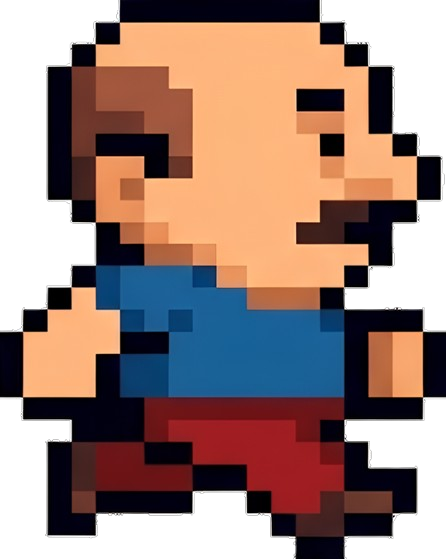
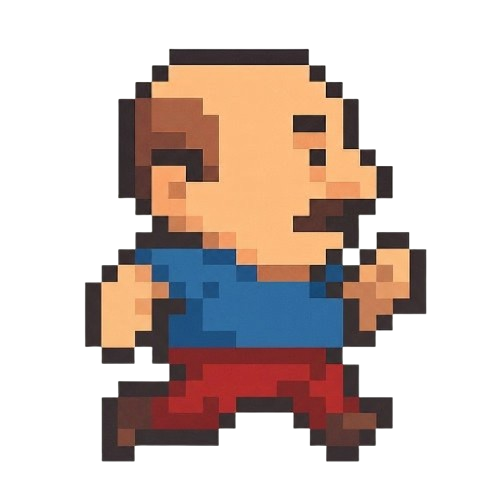
Animation déplacements dans méthodes + Jump en cours (fonctionnel mais pas d'animation)

diff --git a/Saé/UCForet.xaml.cs b/Saé/UCForet.xaml.cs
@@ -22,13 +22,15 @@ namespace Saé
     /// </summary>
     public partial class UCForet : UserControl
     {
-        private BitmapImage[] persos = new BitmapImage[5];
+        private BitmapImage[] imgPersoDroite = new BitmapImage[3];
+        private BitmapImage[] imgPersoGauche = new BitmapImage[3];
+        public static string derniereTouche = "";
         public static string orientationPerso = "Face";
         private int nb = 0;
         public UCForet()
         {
             InitializeComponent();
-            InitializeImagesDroiteMarche();
+            InitializeImagesMarche();
             if (MainWindow.Perso == "Homme")
                 Canvas.SetBottom(imgPerso, 63);
             else
@@ -37,39 +39,89 @@ namespace Saé
             imgPerso.Source = new BitmapImage(new Uri(nomFichierImage));
         }
 
-        private void InitializeImagesDroiteMarche()
+        private void InitializeImagesMarche()
         {
-            for (int i = 0; i < persos.Length; i++)
-                persos[i] = new BitmapImage(new Uri($"pack://application:,,,/images/img{MainWindow.Perso}DroiteMarche{i + 1}.png"));
+            for (int i = 0; i < imgPersoDroite.Length; i++)
+            {
+                imgPersoDroite[i] = new BitmapImage(new Uri($"pack://application:,,,/images/img{MainWindow.Perso}DroiteMarche{i + 1}.png"));
+                imgPersoGauche[i] = new BitmapImage(new Uri($"pack://application:,,,/images/img{MainWindow.Perso}GaucheMarche{i + 1}.png"));
+            }
         }
 
         public void canvasJeu_KeyDown(object sender, KeyEventArgs e)
         {
             if (e.Key == Key.Left && Canvas.GetLeft(imgPerso) <= -30 || e.Key == Key.Right && Canvas.GetLeft(imgPerso) > ActualWidth - imgPerso.Width + 10)
-                Console.WriteLine("Le personnage ne peut pas sortir de la fenêtre");
+                return;
+            else if (e.Key == Key.Up && derniereTouche == "Right" && Canvas.GetLeft(imgPerso) < ActualWidth - imgPerso.Width + 10 - 91 || e.Key == Key.Up && derniereTouche == "Left" && Canvas.GetLeft(imgPerso) > -30 + 91)
+            {
+                if (derniereTouche == "Right")
+                    imgPerso.Source = new BitmapImage(new Uri($"pack://application:,,,/images/img{MainWindow.Perso}DroiteSaut.png"));
+                else if (derniereTouche == "Left")
+                    imgPerso.Source = new BitmapImage(new Uri($"pack://application:,,,/images/img{MainWindow.Perso}GaucheSaut.png"));
+                Canvas.SetBottom(imgPerso, Canvas.GetBottom(imgPerso) + 100);
+            }
             else
             {
                 if (e.Key == Key.Right)
                 {
-                    Canvas.SetLeft(imgPerso, Canvas.GetLeft(imgPerso) + MainWindow.pasPerso);
-                    nb++;
-                    if (nb / 3 == persos.Length)
-                        nb = 0;
-                    if (nb % 3 == 0)
-                        imgPerso.Source = persos[nb / 3];
+                    DeplaceDroite(imgPerso, MainWindow.pasPerso);
+                    derniereTouche = "Right";
                 }
                 else if (e.Key == Key.Left)
                 {
-                    Canvas.SetLeft(imgPerso, Canvas.GetLeft(imgPerso) - MainWindow.pasPerso);
-                    imgPerso.Source = new BitmapImage(new Uri($"pack://application:,,,/images/img{MainWindow.Perso}Gauche.png"));
+                    DeplaceGauche(imgPerso, MainWindow.pasPerso);
+                    derniereTouche = "Left";
                 }
-                Console.WriteLine("Position gauche personnage :" + Canvas.GetLeft(imgPerso));
             }
         }
 
         private void canvasJeu_KeyUp(object sender, KeyEventArgs e)
         {
-            imgPerso.Source = new BitmapImage(new Uri($"pack://application:,,,/images/img{MainWindow.Perso}Face.png"));
+            if (e.Key == Key.Left)
+                imgPerso.Source = new BitmapImage(new Uri($"pack://application:,,,/images/img{MainWindow.Perso}Gauche.png"));
+            else if (e.Key == Key.Right)
+                imgPerso.Source = new BitmapImage(new Uri($"pack://application:,,,/images/img{MainWindow.Perso}Droite.png"));
+            else if (e.Key == Key.Down)
+                imgPerso.Source = new BitmapImage(new Uri($"pack://application:,,,/images/img{MainWindow.Perso}Face.png"));
+            else if (e.Key == Key.Up && derniereTouche == "Right" && Canvas.GetLeft(imgPerso) < ActualWidth - imgPerso.Width + 10 - 91 || e.Key == Key.Up && derniereTouche == "Left" && Canvas.GetLeft(imgPerso) > -30 + 91)
+            {
+                for (int i = 1; i < 14; i++)
+                {
+                    if (derniereTouche == "Right")
+                    {
+                        Canvas.SetLeft(imgPerso, Canvas.GetLeft(imgPerso) + i);
+                        imgPerso.Source = new BitmapImage(new Uri($"pack://application:,,,/images/img{MainWindow.Perso}Droite.png"));
+                    }
+                    else if (derniereTouche == "Left")
+                    {
+                        Canvas.SetLeft(imgPerso, Canvas.GetLeft(imgPerso) - i);
+                        imgPerso.Source = new BitmapImage(new Uri($"pack://application:,,,/images/img{MainWindow.Perso}Gauche.png"));
+                    }
+                    Canvas.SetBottom(imgPerso, Canvas.GetBottom(imgPerso) - i);
+                }
+                Canvas.SetBottom(imgPerso, Canvas.GetBottom(imgPerso) - 9);
+            }
+        }
+
+        public void DeplaceGauche(Image image, double pas)
+        {
+            Canvas.SetLeft(imgPerso, Canvas.GetLeft(imgPerso) - MainWindow.pasPerso);
+            AnimationDeplacements(imgPersoGauche);
+        }
+
+        public void DeplaceDroite(Image image, double pas)
+        {
+            Canvas.SetLeft(imgPerso, Canvas.GetLeft(imgPerso) + MainWindow.pasPerso);
+            AnimationDeplacements(imgPersoDroite);
+        }
+
+        public void AnimationDeplacements(BitmapImage[] tabImg)
+        {
+            nb++;
+            if (nb / 3 == tabImg.Length)
+                nb = 0;
+            if (nb % 3 == 0)
+                imgPerso.Source = tabImg[nb / 3];
         }
 
         private void UserControl_Loaded(object sender, RoutedEventArgs e)
